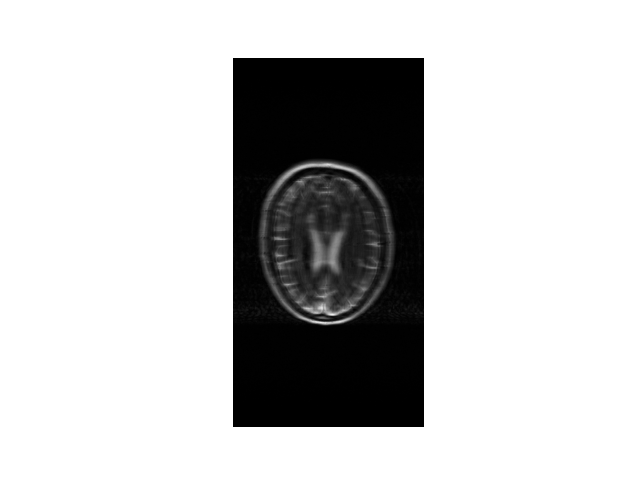
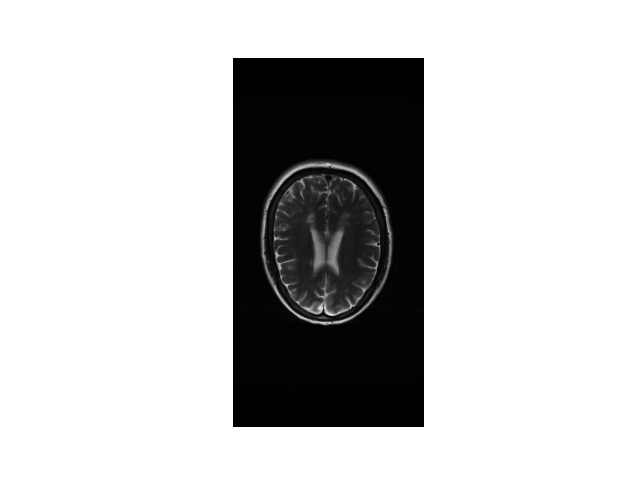
no acceleration

Changed region(s): [[0.4062, 0.3438, 0.5938, 0.6875], [0.5312, 0.375, 0.625, 0.5938], [0.5, 0.5312, 0.5312, 0.5625]]

diff --git a/my_CDLNet/sense.py b/my_CDLNet/sense.py
@@ -58,7 +58,7 @@ def main(args):
     # Detect acceleration maps
     #mask = detect_acc_mask(kspace)
     # Make an acceleration map
-    mask, _ = make_acc_mask(shape = (smaps.shape[2], smaps.shape[2]), accel = 4, acs_lines = 24)
+    mask, _ = make_acc_mask(shape = (smaps.shape[2], smaps.shape[2]), accel = 1, acs_lines = 24)
     # Switch axes and send to GPU
     smaps = smaps.permute(0, 2, 1).to(device)
     # Normalize smaps for SENSE
